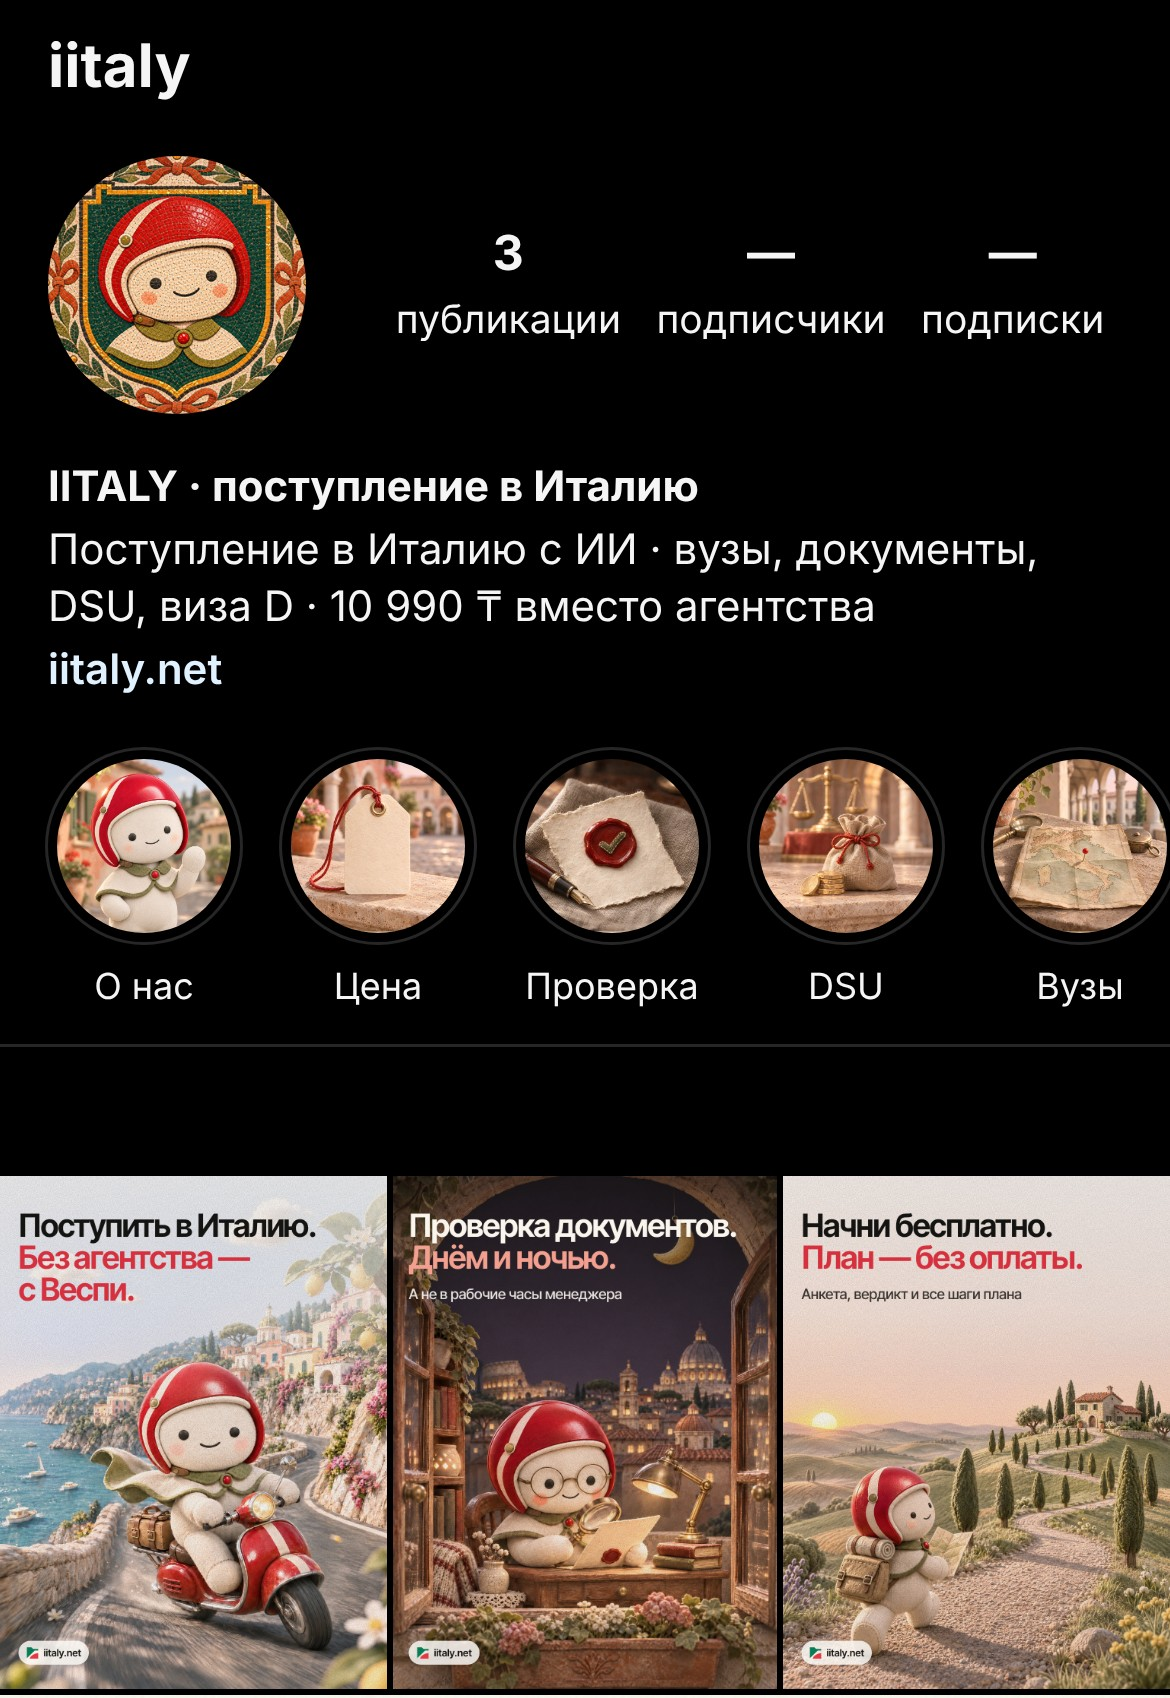
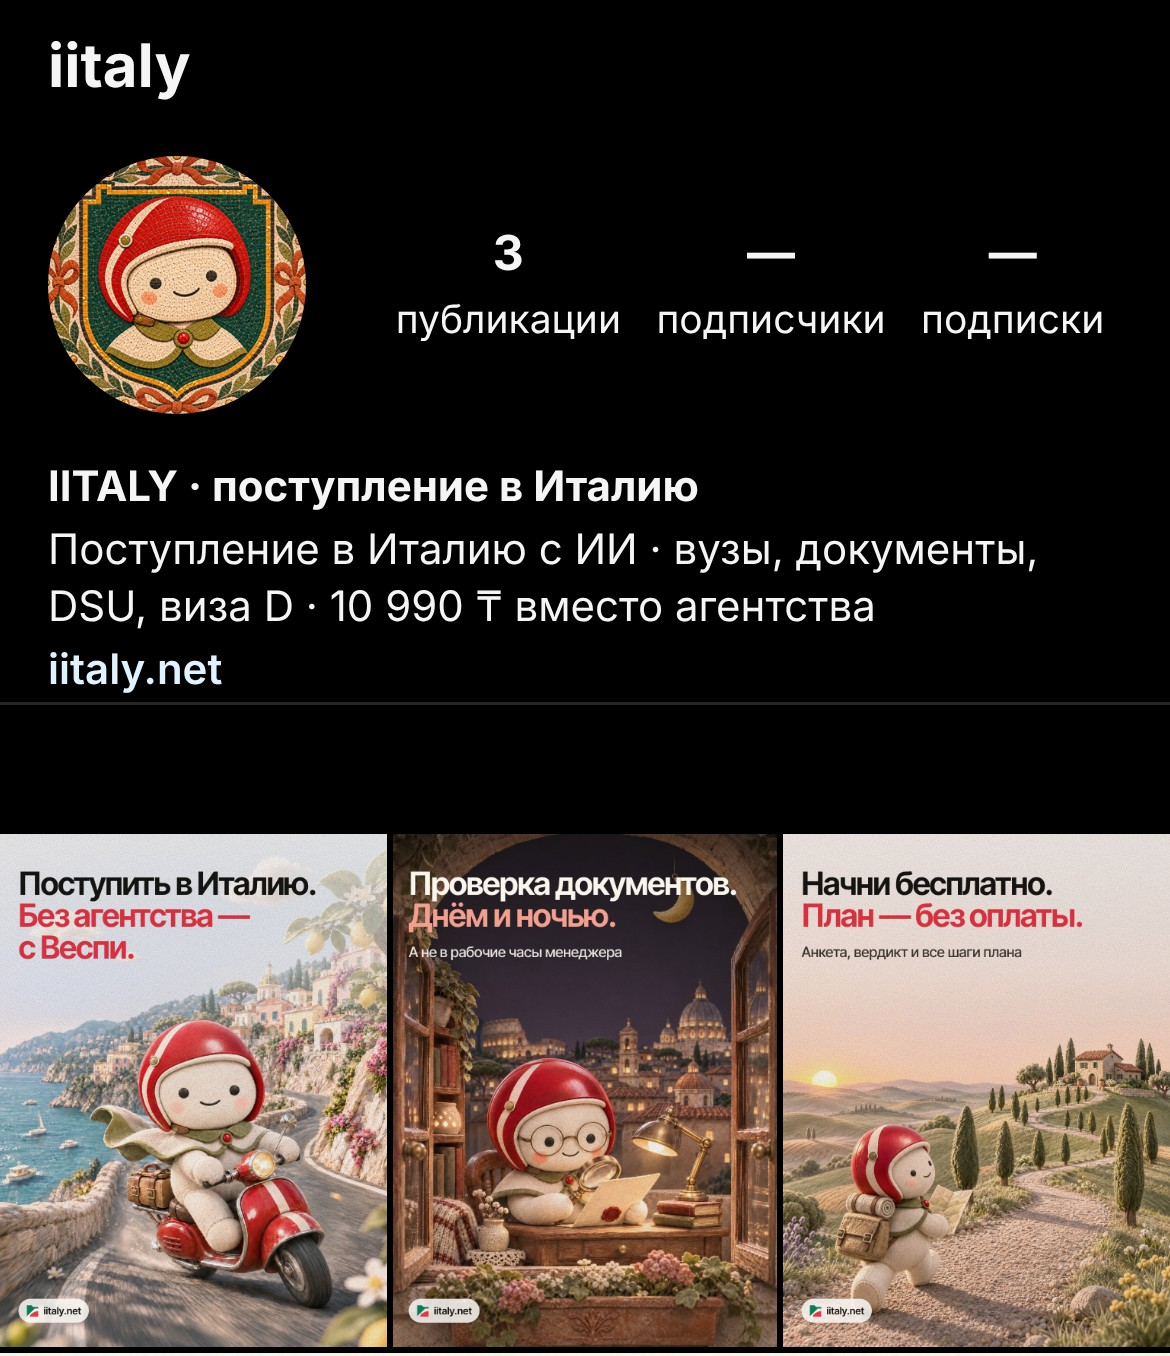
Instagram: no highlights at launch; three directions for later covers, mosaic recommended (#225)
Owner: «вообще нам актуальные нужны? мне кажется, нет». The highlight covers and the highlight row in the profile preview are removed from the launch set. Three directions for later covers (mosaic medallions, engraved stamps, type) are sampled in highlight-ideas/, with mosaic recommended to match the avatar.

Claude-Session: https://claude.ai/code/session_01EJf3uoJW8TN46ucPCkbbdr

diff --git a/design/social/instagram/README.md b/design/social/instagram/README.md
@@ -43,11 +43,9 @@ Instagram аккаунта». Здесь готовый к загрузке на
   мопеда.
 - **В постах Веспи на каждом слайде, в «Актуальном» — нет** (владелец: «Веспи
   именно в посте должен быть везде, а на актуальных не везде»).
-- **«Актуальное» — спокойные натюрморты, не мультяшные** (владелец: «не хочу,
-  чтобы было слишком мультяшно»). Это макро-фото предметов того же мира и
-  той же палитры: ценник, лист с сургучом, монеты, карта с булавкой,
-  паспорт со штампом, раскрытая книга, телефон. Веспи только на первой
-  обложке, «О нас».
+- **«Актуального» на старте нет** (владелец: «вообще нам актуальные
+  нужны? мне кажется, нет»). Почему и что делать потом — в разделе
+  «Актуальное» ниже.
 
 ## Что загружать
 
@@ -57,12 +55,9 @@ Instagram аккаунта». Здесь готовый к загрузке на
 | Пост 1, 5 слайдов | `posts/post1-1.jpg` … `post1-5.jpg` |
 | Пост 2, 4 слайда | `posts/post2-1.jpg` … `post2-4.jpg` |
 | Пост 3, 4 слайда | `posts/post3-1.jpg` … `post3-4.jpg` |
-| Обложки «Актуального» | `highlights/01-o-nas.jpg` … `08-voprosy.jpg` (1080×1920) |
 | Как это будет выглядеть | `profile-preview-light.jpg`, `profile-preview-dark.jpg` |
 
-Слайды — 1080×1350 (4:5): это самый высокий формат ленты. Обложки
-«Актуального» — 1080×1920. Сцена стоит в середине, где Instagram вырезает
-круг; выше и ниже — её же размытое продолжение.
+Слайды — 1080×1350 (4:5): это самый высокий формат ленты.
 
 ## Порядок публикации
 
@@ -84,56 +79,39 @@ Instagram аккаунта». Здесь готовый к загрузке на
 
 ## «Актуальное»
 
-Порядок слева направо. На телефоне без прокрутки видно первые 4–5
-кружков, поэтому сначала идёт то, что решает «покупать или нет».
+**На старте — без него.** Владелец: «вообще нам актуальные нужны? мне
+кажется, нет… подумай, что может быть нетривиальным, стильным at the same
+time».
 
-| Файл | Название | На обложке | Что положить |
+Почему так:
+
+- «Актуальное» — это сохранённые сторис. Сторис у аккаунта ещё нет, и
+  кружки пришлось бы наполнять повтором сайта (цена, вузы, FAQ). Это
+  пустая витрина.
+- Три поста уже отвечают на главное: что это, проверка документов, цена
+  и что бесплатно. Ссылка в шапке ведёт на сайт, где всё подробно.
+- Профиль без кружков выглядит чище: аватарка → шапка → ряд из трёх
+  обложек.
+
+**Когда добавлять:** когда наберутся настоящие сторис. Например:
+- настоящие отзывы (скриншоты с согласия людей);
+- ответы на частые вопросы из директа;
+- разборы документов;
+- новости о сроках.
+
+Три кружка с живым содержанием лучше восьми пустых.
+
+**Три направления для обложек** — пробы в `highlight-ideas/`, лист
+сравнения `highlight-ideas/ideas.jpg`. Все три без мультяшности.
+
+| Направление | Что это | Плюсы | Минусы |
 |---|---|---|---|
-| `01-o-nas` | О нас | Веспи машет рукой | кто мы, как работает маршрут, ссылка на сайт |
-| `02-cena` | Цена | бумажный ценник | 10 990 ₸ один раз, что входит, что бесплатно, возврат 7 дней |
-| `03-dokumenty` | Проверка | лист с сургучом и галочкой | как проходит проверка документа, пример вердикта |
-| `04-dsu` | DSU | монеты и кошелёк на банковской стойке | что такое DSU, как считаем шансы |
-| `05-vuzy` | Вузы | карта Италии с булавкой | карта 43 вузов, сравнение |
-| `06-viza` | Виза | паспорт со штампом | виза D по шагам |
-| `07-gaidy` | Гайды | раскрытая книга в библиотеке | 5 бесплатных гайдов |
-| `08-voprosy` | Вопросы | старый телефон | частые вопросы родителей и школьников |
+| **Мозаика** (рекомендую) | Медальоны пола Галереи Виктора Эммануила II: лавровое кольцо и один простой знак (конверт с печатью, монета, арка) | Продолжает аватарку, она тоже мозаика. Узнаётся в кружке 64 px: крупная форма и сильный цвет. Так ни у кого нет | Нужно держать единый набор знаков |
+| **Марки** | Старые итальянские почтовые марки, гравюра в двух красках | Очень «про документы и почту», красиво крупно | В 64 px гравюра превращается в кашу |
+| **Шрифт** | Одна цифра или знак шрифтом сайта: «43», «₸», «?» | Строго, по-редакционному, мгновенно читается | Спокойно до сухости, мало Италии |
 
-Названия короткие: Instagram обрезает подпись под кружком примерно до 10
-знаков, поэтому «Проверка», а не «Документы».
-
-### Что говорит ресёрч об «Актуальном» и покупках
-
-Честно: проверенных исследований о прямом влиянии «Актуального» на
-продажи нет. Цифры вида «+47 % конверсии» гуляют по блогам агентств без
-ссылок на первоисточник, поэтому здесь они не используются. Вот на что
-можно опереться:
-
-- **Сам Instagram (опрос, а не замер продаж).** 58 % опрошенных стали
-  больше интересоваться брендом после его Stories, около половины зашли
-  на сайт купить. «Актуальное» — это те же Stories, которые остаются в
-  профиле. Источник:
-  [business.instagram.com](https://business.instagram.com/igb/a/stories).
-- **Практика сходится в главном:**
-  - профиль — витрина для нового человека, а «Актуальное» — её меню;
-  - важнее содержание и понятные названия, чем красота обложек;
-  - обложки должны быть в одном стиле и читаться в маленьком кружке:
-    один предмет, без мелочи ([Sked Social](https://skedsocial.com/blog/how-to-create-and-add-instagram-highlight-covers),
-    [Shopify](https://www.shopify.com/blog/instagram-highlight-covers)).
-- **Что продаёт.** Цена и «что входит», ответы на возражения (FAQ) и
-  отзывы. Отзывы — главный фактор для многих покупателей, но только
-  настоящие: слишком гладким люди не верят (опрос Bazaarvoice в пересказе
-  [Creatorflow](https://creatorflow.so/blog/instagram-social-proof/)).
-
-Отсюда решения:
-
-- «Цена» стоит второй.
-- «Вопросы» отвечают на возражения родителей: можно ли без агентства,
-  что если вуз откажет, возврат.
-- **«Отзывы» добавить, когда будут настоящие** (скриншоты переписок с
-  согласия). Придумывать их нельзя.
-- Обложки сделаны спокойными предметами в стиле сайта: для покупки
-  сервиса за деньги это выглядит взрослее и надёжнее, чем мультфильм.
-  Веспи остаётся лицом бренда на аватарке и в постах.
+Рекомендация: мозаика. Аватарка и кружки будут одним «полом Галереи», а
+в постах — игрушечный мир Веспи.
 
 ## Слайды
 
@@ -245,9 +223,8 @@ Alt-текст обложки: «Тосканские холмы на рассв
 
 ## Как пересобрать
 
-Сцены (`source/scenes/m11…m34.webp`, обложки `h1.webp` и `s2…s8.webp`) уже
-приглушены. Они сгенерированы в Higgsfield (`gpt_image_2_6`, high, 2k;
-посты 4:5, обложки 1:1). Референсы: старый кадр той же сцены (номера в
+Сцены (`source/scenes/m11…m34.webp`) уже
+приглушены. Они сгенерированы в Higgsfield (`gpt_image_2_6`, high, 2k, 4:5). Референсы: старый кадр той же сцены (номера в
 `../README.md`) и внешность Веспи (`ab833075…`, `0f6d7ac4…`, для обложек
 ещё `a448f972…`). После генерации каждый кадр прошёл через `mute.py`.
 
@@ -255,7 +232,6 @@ Alt-текст обложки: «Тосканские холмы на рассв
   запущенной локальной сборки сайта на `http://127.0.0.1:4310`. Тексты —
   `slides.json`. Светлый или тёмный набор зависит от яркости верхней
   трети кадра (`lum.json`).
-- `python3 source/highlights.py <out>` — обложки «Актуального».
 - `node source/profile.mjs <out.png> [dark]` — макет профиля.
 
 | Сцена | Задание |
@@ -293,27 +269,27 @@ Alt-текст обложки: «Тосканские холмы на рассв
 | m33 Комо (лицо к камере, пропорции как на эталоне) | `f9ab6a34-122a-4845-91a5-5ce41c452fa9` |
 | m34 Колизей (у мопеда, лицо по эталону) | `a21e41ee-4135-446b-be53-1d312856a6c4` |
 
-Обложки «Актуального» (натюрморты):
-
-| Сцена | Задание |
-|---|---|
-| s2 Вузы | `6b8aac11-5e87-4582-9d16-24162c4945f1` |
-| s3 Проверка | `720283c8-3374-4c98-b7a4-af4bbd1c8431` |
-| s4 DSU | `e2739be9-ddc5-4e0f-952c-8ea34fb1e2b9` |
-| s5 Виза | `23a4eaff-9c72-408c-8703-50894de4b102` |
-| s6 Гайды | `9334408a-7c52-4daa-ae6d-7e0568f74d2a` |
-| s7 Цена | `eab46950-32bf-463d-893a-57584fcc7c11` |
-| s8 Вопросы | `38c0a9e5-3b89-4a0a-8ad0-2eab859cd612` |
-
 В первой таблице у m11, m13, m21, m23, m24, m33 и m34 указаны номера
 заданий до правки лица. Отклонены владельцем:
 - слишком сильные выражения (открытый рот, язык, подмигивание);
 - слайды без Веспи в постах (Флоренция `b90f090c…`, банк `9200b819…`,
   часы `374135b5…`, библиотека `edfabdd1…`);
-- мультяшные обложки с Веспи `h2…h6`;
-- зелёные иконки.
+- мультяшные обложки с Веспи `h2…h6`, натюрморты `s2…s8` и зелёные
+  иконки; «Актуальное» на старте убрано совсем.
 
 Промежуточный вариант со спокойными новыми местами (Матера, Доломиты и
 другие) и зелёные обложки-иконки владелец отклонил: «серый» фон,
 «безвкусные» обложки. Их задания: Матера `ec670048…`, Сиена `75b651b9…`,
 Доломиты `388f3509…` и т. д., в истории Higgsfield от 14 ноября, 22:16.
+
+Пробы обложек `highlight-ideas/` (Higgsfield, `gpt_image_2_6`, 1:1):
+
+- мозаика по технике аватарки (`e873fa24…`):
+  - конверт — `87125bec-040a-4a5a-b8a2-f56222774140`;
+  - монета — `186bef2f-8bed-4f6c-bb2b-0d8fc0b71207`;
+  - арка — `ad658e68-0e5d-49ca-a6fc-5cd0678d6ed9`;
+- марки:
+  - конверт — `c81399ca-7274-4f0a-931c-2f63dcb4c307`;
+  - весы — `c5419321-ada6-4b4b-86de-b4b0c52ea410`;
+  - аркада — `3da00f8a-2f7a-49b3-8b80-270b84674dbd`;
+- шрифтовые собраны кодом шрифтом сайта.

diff --git a/design/social/README.md b/design/social/README.md
@@ -4,9 +4,10 @@
 репозиторий из его копии этого журнала. Сайт эта папка не трогает: здесь
 только материалы для Instagram.
 
-> **Готовый набор для загрузки — `instagram/`** (14 ноября, вечер): аватарка,
-> три поста (13 слайдов: места варианта A, цвета приглушены), шесть обложек
-> «Актуального», макет профиля, шапка и подписи. Начинать с
+> **Готовый набор для загрузки — `instagram/`** (14–15 ноября): аватарка,
+> три поста (13 слайдов: места варианта A, цвета приглушены), макет
+> профиля, шапка и подписи. «Актуального» на старте нет, три направления
+> обложек на потом — в `instagram/highlight-ideas/`. Начинать с
 > `instagram/README.md`.
 
 Владелец: «нам ещё нужно сделать инстаграм посты с Веспи в главной роли,
